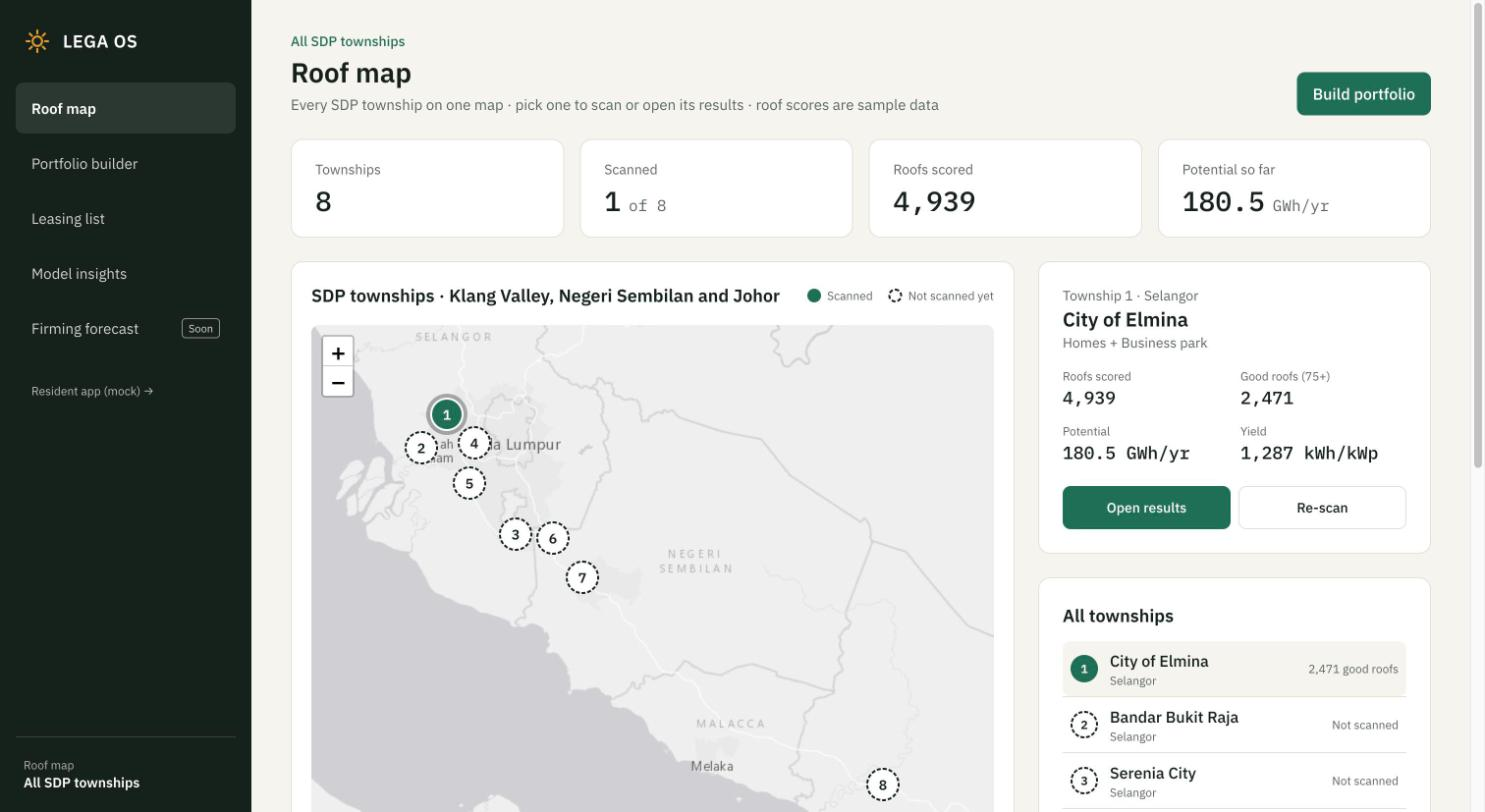
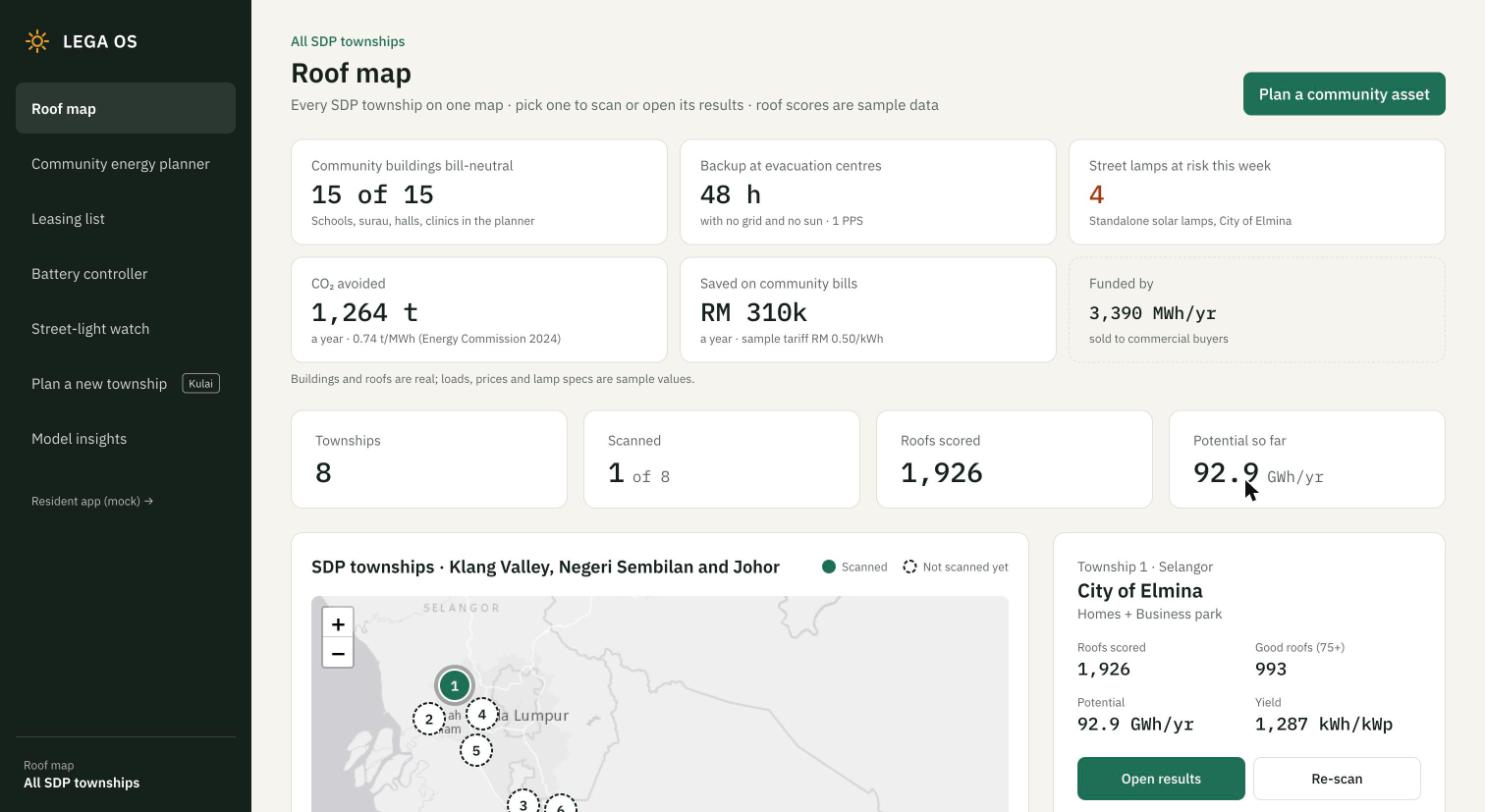
README: new v2 screenshots (roof map overview, planner, battery controller, street lights, Kulai, orientation study)

diff --git a/README.md b/README.md
@@ -108,13 +108,13 @@ annual_kWh     = kWp × yield_per_kWp × (1 − shading_loss)
 bill_neutral   = annual_kWh ≥ terrace 4,800 · semi-D 7,200 · shophouse 9,000 kWh
 ```
 
-![Roof map: all SDP townships](docs/screenshots/1-roof-map.jpg)
+![Roof map: community numbers first, all SDP townships](docs/screenshots/1-roof-map.jpg)
 
 | | |
 |---|---|
-| ![Township scan](docs/screenshots/2-township-scan.jpg) | ![Portfolio plan](docs/screenshots/3-portfolio-plan.jpg) |
-| ![Forecast backtest](docs/screenshots/4-forecast-backtest.jpg) | ![Firming forecast](docs/screenshots/5-firming.jpg) |
-| ![Leasing list](docs/screenshots/6-leasing.jpg) | ![Roof scoring model](docs/screenshots/7-roof-model.png) |
+| ![Community energy planner: an evacuation centre's plan](docs/screenshots/2-community-planner.jpg) | ![Battery controller: storm drill, 72 hours](docs/screenshots/3-battery-controller.jpg) |
+| ![Street-light watch: lamps at risk this week](docs/screenshots/4-street-light-watch.jpg) | ![Plan a new township: Kulai layout coloured by roof efficiency](docs/screenshots/5-kulai.jpg) |
+| ![Orientation study: Kulai tilt and direction](docs/screenshots/6-orientation-study.jpg) | |
 
 ---
 
